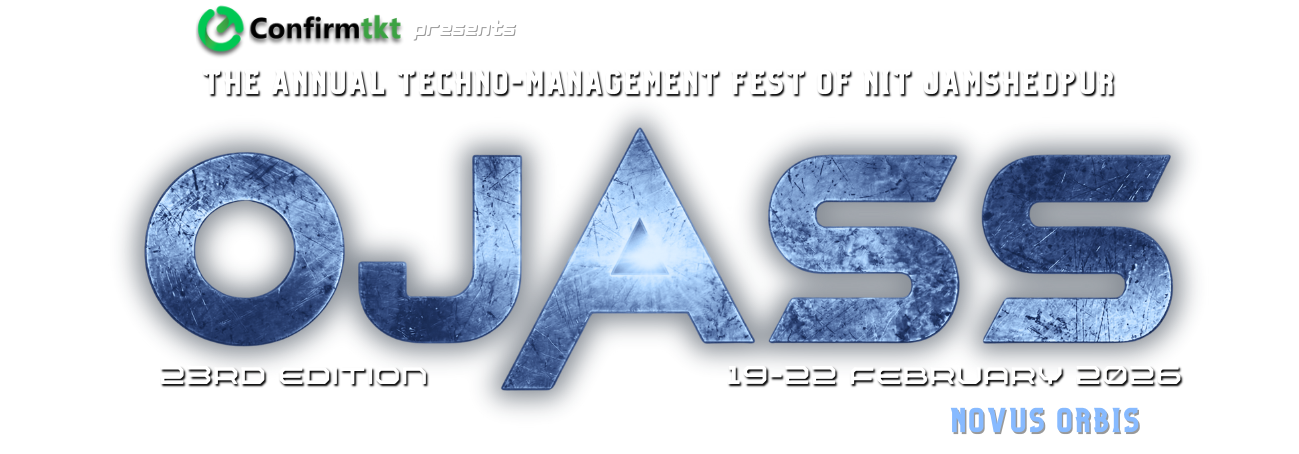
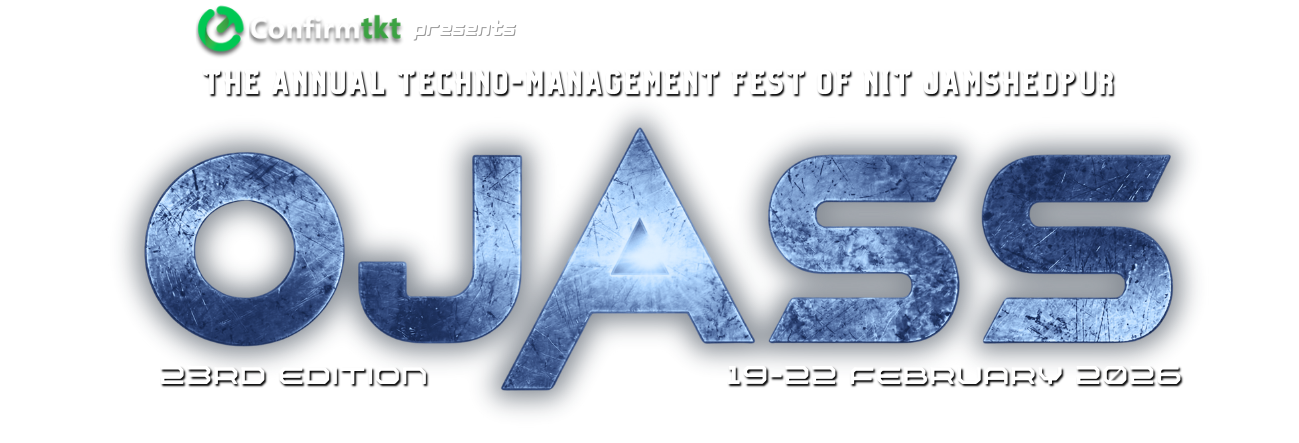
theme removed

Changed region(s): [[0.0924, 0.2935, 0.9238, 0.9684], [0.154, 0.0293, 0.8622, 0.2348]]

diff --git a/ojass.org/src/app/page.tsx b/ojass.org/src/app/page.tsx
@@ -40,143 +40,147 @@ export default function Home() {
 
     return (
         <div className="h-screen overflow-y-scroll snap-y snap-mandatory" style={{ scrollBehavior: 'smooth' }}>
-            <div className="snap-start" style={{
-                backgroundImage: "url(/home_long.png)",
-                backgroundSize: "cover",
-                backgroundPosition: "center top",
-                backgroundRepeat: "no-repeat",
-                width: "100vw",
+            <div className="snap-start relative" style={{
+                width: "100%",
                 height: "200vh",
                 backgroundColor: "black",
-                filter: isDystopia ? "hue-rotate(180deg)" : "",
             }}>
-                <div className="relative flex flex-col items-center justify-center gap-6 h-screen">
-                    <Image src="/text-main-dys.png" alt="Home" width={500} height={500} className="object-contain w-[90vw] md:w-1/2 md:mb-0 mb-32" style={{
-                        filter: "hue-rotate(180deg)"
-                    }}/>
+                <div
+                    className="absolute inset-0 w-full h-full pointer-events-none"
+                    style={{
+                        backgroundImage: "url(/home_long.png)",
+                        backgroundSize: "cover",
+                        backgroundPosition: "center top",
+                        backgroundRepeat: "no-repeat",
+                        filter: isDystopia ? "hue-rotate(180deg)" : "none",
+                    }}
+                />
+                <div className="relative w-full h-full">
+                    <div className="relative flex flex-col items-center justify-center gap-6 h-screen">
+                        <Image src={isDystopia ? `/text-main-dys.png` : "/text-main-dys-1.png"} alt="Home" width={500} height={500} className="object-contain w-[90vw] md:w-1/2 md:mb-0 mb-32" style={{
+                            // filter: "hue-rotate(180deg)"
+                        }} />
 
-                    {/* Mobile-only CA and Sponsor buttons - Positioned below image */}
-                    <div className="absolute flex flex-col md:hidden gap-3 w-[60%] max-w-[250px] md:mt-0 mt-20" style={{
-                        top: '62%',
-                        left: '50%',
-                        transform: 'translateX(-50%)',
-                        filter: isDystopia ? 'hue-rotate(-180deg)' : 'none'
-                    }}>
-                        <Link
-                            href="https://sponsor.ojass.org"
-                            target="_blank"
-                            className={`layout-panel layout-text font-bold text-center px-4 py-2.5 text-xs hover:scale-105 active:scale-95 transition-all duration-300 ${isDystopia ? "is-dystopia" : ""}`}
-                            style={{
-                                clipPath:
-                                    "polygon(8px 0, 100% 0, 100% calc(100% - 8px), calc(100% - 8px) 100%, 0 100%, 0 8px)",
-                            }}
-                        >
-                            SPONSOR US
-                        </Link>
-                        <Link
-                            href="https://ca.ojass.org"
-                            target="_blank"
-                            className={`layout-panel layout-text font-bold text-center px-4 py-2.5 text-xs hover:scale-105 active:scale-95 transition-all duration-300 ${isDystopia ? "is-dystopia" : ""}`}
-                            style={{
-                                clipPath:
-                                    "polygon(0 0, calc(100% - 8px) 0, 100% 8px, 100% 100%, 8px 100%, 0 calc(100% - 8px))",
-                            }}
-                        >
-                            CA PROGRAM
-                        </Link>
+                        {/* Mobile-only CA and Sponsor buttons - Positioned below image */}
+                        <div className="absolute flex flex-col md:hidden gap-3 w-[60%] max-w-[250px] md:mt-0 mt-20" style={{
+                            top: '62%',
+                            left: '50%',
+                            transform: 'translateX(-50%)',
+                        }}>
+                            <Link
+                                href="https://sponsor.ojass.org"
+                                target="_blank"
+                                className={`layout-panel layout-text font-bold text-center px-4 py-2.5 text-xs hover:scale-105 active:scale-95 transition-all duration-300 ${isDystopia ? "is-dystopia" : ""}`}
+                                style={{
+                                    clipPath:
+                                        "polygon(8px 0, 100% 0, 100% calc(100% - 8px), calc(100% - 8px) 100%, 0 100%, 0 8px)",
+                                }}
+                            >
+                                SPONSOR US
+                            </Link>
+                            <Link
+                                href="https://ca.ojass.org"
+                                target="_blank"
+                                className={`layout-panel layout-text font-bold text-center px-4 py-2.5 text-xs hover:scale-105 active:scale-95 transition-all duration-300 ${isDystopia ? "is-dystopia" : ""}`}
+                                style={{
+                                    clipPath:
+                                        "polygon(0 0, calc(100% - 8px) 0, 100% 8px, 100% 100%, 8px 100%, 0 calc(100% - 8px))",
+                                }}
+                            >
+                                CA PROGRAM
+                            </Link>
+                        </div>
                     </div>
-                </div>
-                {/* Second Section - About OJASS with YouTube Embed */}
-                <div className="h-screen w-full relative overflow-hidden py-6 md:py-12 px-4 md:px-8 flex items-center snap-start" style={{
-                    filter: isDystopia ? 'hue-rotate(-180deg)' : 'none'
-                }}>
-                    {/* Background Gradient from transparent to black */}
-                    <div className="absolute inset-0" style={{
-                        background: 'linear-gradient(to bottom, transparent 0%, black 100%)'
-                    }}></div>
+                    {/* Second Section - About OJASS with YouTube Embed */}
+                    <div className="h-screen w-full relative overflow-hidden py-6 md:py-12 px-4 md:px-8 flex items-center snap-start">
+                        {/* Background Gradient from transparent to black */}
+                        <div className="absolute inset-0" style={{
+                            background: 'linear-gradient(to bottom, transparent 0%, black 100%)'
+                        }}></div>
 
-                    {/* Background Grid Effect */}
-                    <div className="absolute inset-0 hud-grid opacity-20" style={{
-                        filter: isDystopia ? 'hue-rotate(180deg)' : 'none'
-                    }}></div>
+                        {/* Background Grid Effect */}
+                        <div className="absolute inset-0 hud-grid opacity-20" style={{
+                            filter: isDystopia ? 'hue-rotate(180deg)' : 'none'
+                        }}></div>
 
-                    <div className="max-w-5xl mx-auto relative z-10 flex flex-col lg:flex-row gap-4 md:gap-6 lg:gap-10 items-center justify-center w-[80%] md:w-full">
-                        {/* Text Content */}
-                        <motion.div
-                            className="flex-1 space-y-2 md:space-y-4 w-full"
-                            initial={{ opacity: 0, x: -50 }}
-                            whileInView={{ opacity: 1, x: 0 }}
-                            viewport={{ once: true, amount: 0.3 }}
-                            transition={{ duration: 0.8, ease: "easeOut" }}
-                        >
-                            <motion.h2
-                                className={`layout-text text-xl md:text-3xl lg:text-4xl font-bold mb-2 md:mb-4 ${isDystopia ? "is-dystopia" : ""} md:pl-5 lg:pl-6`}
-                                style={{
-                                    textShadow: isDystopia
-                                        ? "0 0 20px rgba(255, 100, 0, 0.8)"
-                                        : "0 0 20px rgba(0, 255, 255, 0.8)"
-                                }}
-                                initial={{ opacity: 0, y: -30 }}
-                                whileInView={{ opacity: 1, y: 0 }}
-                                viewport={{ once: true }}
-                                transition={{ duration: 0.6, delay: 0.2 }}
-                            >
-                                ABOUT OJASS
-                            </motion.h2>
-
+                        <div className="max-w-5xl mx-auto relative z-10 flex flex-col lg:flex-row gap-4 md:gap-6 lg:gap-10 items-center justify-center w-[80%] md:w-full">
+                            {/* Text Content */}
                             <motion.div
-                                className={`${isDystopia ? "is-dystopia" : ""} p-3 md:p-5 lg:p-6`}
-                                style={{
-                                    clipPath: "polygon(0 0, calc(100% - 12px) 0, 100% 12px, 100% 100%, 12px 100%, 0 calc(100% - 12px))"
-                                }}
-                                initial={{ opacity: 0, y: 30 }}
-                                whileInView={{ opacity: 1, y: 0 }}
-                                viewport={{ once: true }}
-                                transition={{ duration: 0.7, delay: 0.4 }}
+                                className="flex-1 space-y-2 md:space-y-4 w-full"
+                                initial={{ opacity: 0, x: -50 }}
+                                whileInView={{ opacity: 1, x: 0 }}
+                                viewport={{ once: true, amount: 0.3 }}
+                                transition={{ duration: 0.8, ease: "easeOut" }}
                             >
-                                <p className={`text-white text-xs md:text-sm lg:text-base leading-relaxed ${isDystopia ? "is-dystopia" : ""}`}>
-                                    <span className="text-sm md:text-lg lg:text-xl">OJASS 2026</span> - The Annual Techno-Management Fest of NIT Jamshedpur, presented by ConfirmTkt, is back with its 23rd edition!
-                                    <br /><br />
-                                    Scheduled for <span className="font-semibold">19-22 February 2026</span>, OJASS brings together the brightest minds from across the nation for an electrifying celebration of innovation, technology, and management.
-                                    <br className="hidden md:block" /><br className="hidden md:block" />
-                                    <span className="hidden md:inline">Experience cutting-edge competitions, inspiring workshops, thrilling events, and networking opportunities that will shape the future. Join us in this journey to the <span className="">&ldquo;NOVUS ORBIS&rdquo;</span> - A New World of possibilities!</span>
-                                </p>
-                            </motion.div>
-                        </motion.div>
+                                <motion.h2
+                                    className={`layout-text text-xl md:text-3xl lg:text-4xl font-bold mb-2 md:mb-4 ${isDystopia ? "is-dystopia" : ""} md:pl-5 lg:pl-6`}
+                                    style={{
+                                        textShadow: isDystopia
+                                            ? "0 0 20px rgba(255, 100, 0, 0.8)"
+                                            : "0 0 20px rgba(0, 255, 255, 0.8)"
+                                    }}
+                                    initial={{ opacity: 0, y: -30 }}
+                                    whileInView={{ opacity: 1, y: 0 }}
+                                    viewport={{ once: true }}
+                                    transition={{ duration: 0.6, delay: 0.2 }}
+                                >
+                                    ABOUT OJASS
+                                </motion.h2>
 
-                        {/* YouTube Embed */}
-                        <motion.div
-                            className="flex-1 w-full max-w-lg lg:max-w-xl"
-                            initial={{ opacity: 0, x: 50 }}
-                            whileInView={{ opacity: 1, x: 0 }}
-                            viewport={{ once: true, amount: 0.3 }}
-                            transition={{ duration: 0.8, delay: 0.3, ease: "easeOut" }}
-                        >
-                            <motion.div
-                                className={`${isDystopia ? "is-dystopia" : ""} p-2 md:p-3`}
-                                style={{
-                                    // clipPath: "polygon(12px 0, 100% 0, 100% calc(100% - 12px), calc(100% - 12px) 100%, 0 100%, 0 12px)"
-                                }}
-                                whileHover={{ scale: 1.02 }}
-                                transition={{ duration: 0.3 }}
-                            >
-                                <div className="relative w-full" style={{ paddingBottom: '56.25%' }}>
-                                    <iframe
-                                        className="absolute top-0 left-0 w-full h-full rounded-lg"
-                                        src="https://www.youtube.com/embed/lzJDI164T-k"
-                                        title="OJASS 2026 Promo"
-                                        allow="accelerometer; autoplay; clipboard-write; encrypted-media; gyroscope; picture-in-picture"
-                                        allowFullScreen
-                                        style={{
-                                            border: 'none',
-                                            boxShadow: isDystopia
-                                                ? "0 0 30px rgba(255, 100, 0, 0.6)"
-                                                : "0 0 30px rgba(0, 255, 255, 0.6)"
-                                        }}
-                                    ></iframe>
-                                </div>
+                                <motion.div
+                                    className={`${isDystopia ? "is-dystopia" : ""} p-3 md:p-5 lg:p-6`}
+                                    style={{
+                                        clipPath: "polygon(0 0, calc(100% - 12px) 0, 100% 12px, 100% 100%, 12px 100%, 0 calc(100% - 12px))"
+                                    }}
+                                    initial={{ opacity: 0, y: 30 }}
+                                    whileInView={{ opacity: 1, y: 0 }}
+                                    viewport={{ once: true }}
+                                    transition={{ duration: 0.7, delay: 0.4 }}
+                                >
+                                    <p className={`text-white text-xs md:text-sm lg:text-base leading-relaxed ${isDystopia ? "is-dystopia" : ""}`}>
+                                        <span className="text-sm md:text-lg lg:text-xl">OJASS 2026</span> - The Annual Techno-Management Fest of NIT Jamshedpur, presented by ConfirmTkt, is back with its 23rd edition!
+                                        <br /><br />
+                                        Scheduled for <span className="font-semibold">19-22 February 2026</span>, OJASS brings together the brightest minds from across the nation for an electrifying celebration of innovation, technology, and management.
+                                        <br className="hidden md:block" /><br className="hidden md:block" />
+                                        <span className="hidden md:inline">Experience cutting-edge competitions, inspiring workshops, thrilling events, and networking opportunities that will shape the future. Join us in this journey to the <span className="">&ldquo;NOVUS ORBIS&rdquo;</span> - A New World of possibilities!</span>
+                                    </p>
+                                </motion.div>
                             </motion.div>
-                        </motion.div>
+
+                            {/* YouTube Embed */}
+                            <motion.div
+                                className="flex-1 w-full max-w-lg lg:max-w-xl"
+                                initial={{ opacity: 0, x: 50 }}
+                                whileInView={{ opacity: 1, x: 0 }}
+                                viewport={{ once: true, amount: 0.3 }}
+                                transition={{ duration: 0.8, delay: 0.3, ease: "easeOut" }}
+                            >
+                                <motion.div
+                                    className={`${isDystopia ? "is-dystopia" : ""} p-2 md:p-3`}
+                                    style={{
+                                        // clipPath: "polygon(12px 0, 100% 0, 100% calc(100% - 12px), calc(100% - 12px) 100%, 0 100%, 0 12px)"
+                                    }}
+                                    whileHover={{ scale: 1.02 }}
+                                    transition={{ duration: 0.3 }}
+                                >
+                                    <div className="relative w-full" style={{ paddingBottom: '56.25%' }}>
+                                        <iframe
+                                            className="absolute top-0 left-0 w-full h-full rounded-lg"
+                                            src="https://www.youtube.com/embed/lzJDI164T-k"
+                                            title="OJASS 2026 Promo"
+                                            allow="accelerometer; autoplay; clipboard-write; encrypted-media; gyroscope; picture-in-picture"
+                                            allowFullScreen
+                                            style={{
+                                                border: 'none',
+                                                boxShadow: isDystopia
+                                                    ? "0 0 30px rgba(255, 100, 0, 0.6)"
+                                                    : "0 0 30px rgba(0, 255, 255, 0.6)"
+                                            }}
+                                        ></iframe>
+                                    </div>
+                                </motion.div>
+                            </motion.div>
+                        </div>
                     </div>
                 </div>
             </div>
